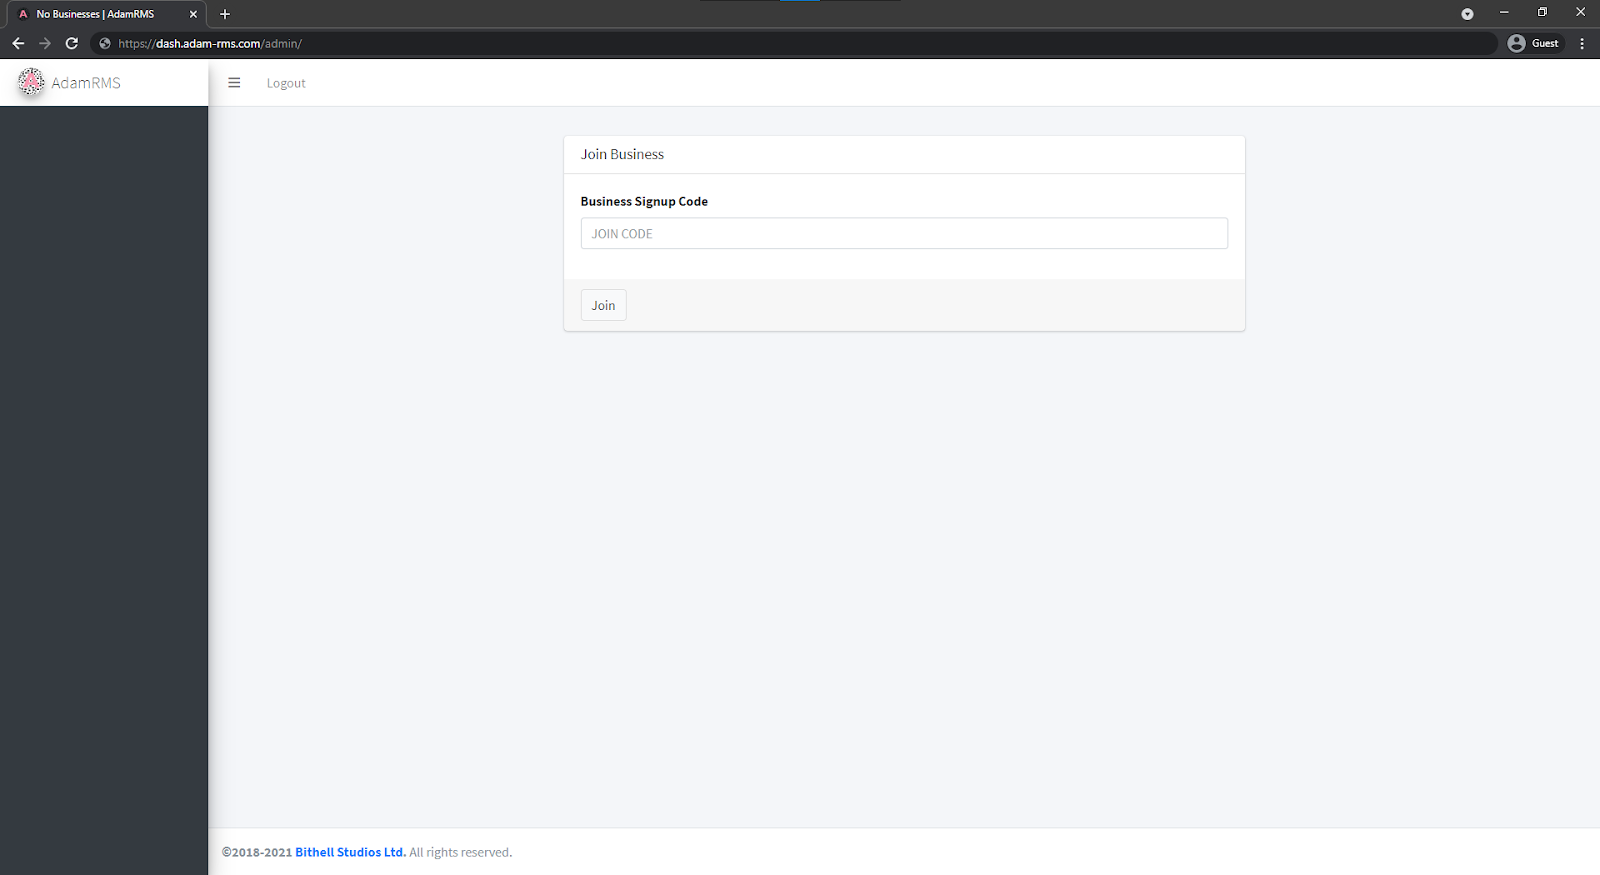
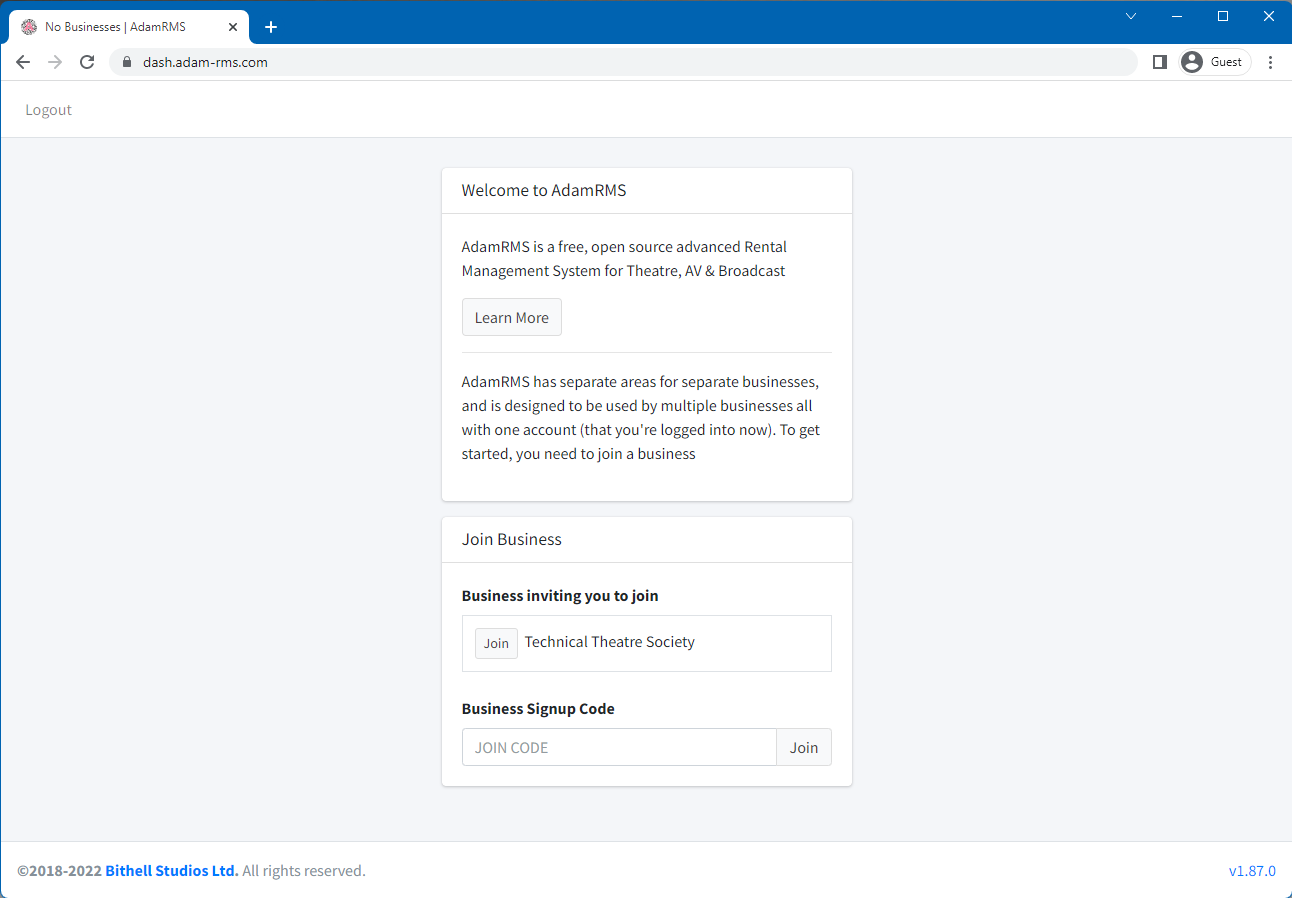
Update documentation for login and trusted domains (adam-rms/adam-rms#385) (#29)
* Update getting started docs

* Add trusted domains documentation

diff --git a/docs/user-guide/getting-started.md b/docs/user-guide/getting-started.md
@@ -12,10 +12,13 @@ This short guide will help you set up an account on the platform and join a busi
 
 ## Signing Up
 ---
-AdamRMS supports log in with an email address or with a Google account. 
+AdamRMS supports log in with a Google account or by using an email address. Logging in with google is the recommended signup method, as it will allow you to join existing businesses more easily.
 
 ![Login Page](/img/tutorial/base/gettingStarted-login.png "AdamRMS Login Page")
 *AdamRMS Login Page*
+
+
+### Signing up with AdamRMS
 
 You will need to provide the following information when creating an account:
 - Your Name
@@ -30,15 +33,16 @@ If you have any issues creating an account, contact your AdamRMS administrator.
 
 ## Joining a business
 ---
-Once you’ve created an account, you’ll need to join a business.
+AdamRMS has separate areas for separate businesses, and is designed to be used by multiple businesses all with one account. To get started, you need to join a business
 
-If you’ve been given a signup code, pop the code from your AdamRMS administrator into the Business Signup Code box and you’ll be added to that business.
-Alternatively, ask your AdamRMS administrator to add you to the business.
+Some businesses may allow you to join their business by clicking on the join button for that business. This is based on your email address.
+
+Alternatively, if you’ve been given a signup code, pop the code from your AdamRMS administrator into the Business Signup Code box and you’ll be added to that business.
 
 You can join other businesses using the business switcher on the dashboard.
 
-![Join Business Page](/img/tutorial/base/gettingStarted-joinBusiness.png "Join Business with a signup code")
-*Join Business with a signup code.*
+![Join Business Page](/img/tutorial/base/gettingStarted-joinBusiness.png)
+*Joining Business*
 
 ## Your Account
 ---

diff --git a/docs/user-guide/business/user-management.md b/docs/user-guide/business/user-management.md
@@ -64,3 +64,14 @@ Signup codes are a way for individuals to automatically be added to your busines
 The code is the item users enter to get access to your business.  
 AdamRMS tracks how many uses a code has had, and you can receive an email every time a signup code is used. 
 
+## Trusted Domains
+---
+Trusted Domains allows users on AdamRMS with verified email addresses to join your businesses if their email matches a domain you enter below.
+
+They are similar to Signup Codes, in that they allow others to join your business, but they are automatic and are offered to any user in any domain you list.
+
+:::note Trusted Domain Permissions
+133	- Manage Trusted Domains
+:::
+
+![Trusted Domains](/img/tutorial/businesses/user-trusted-domains.png)
